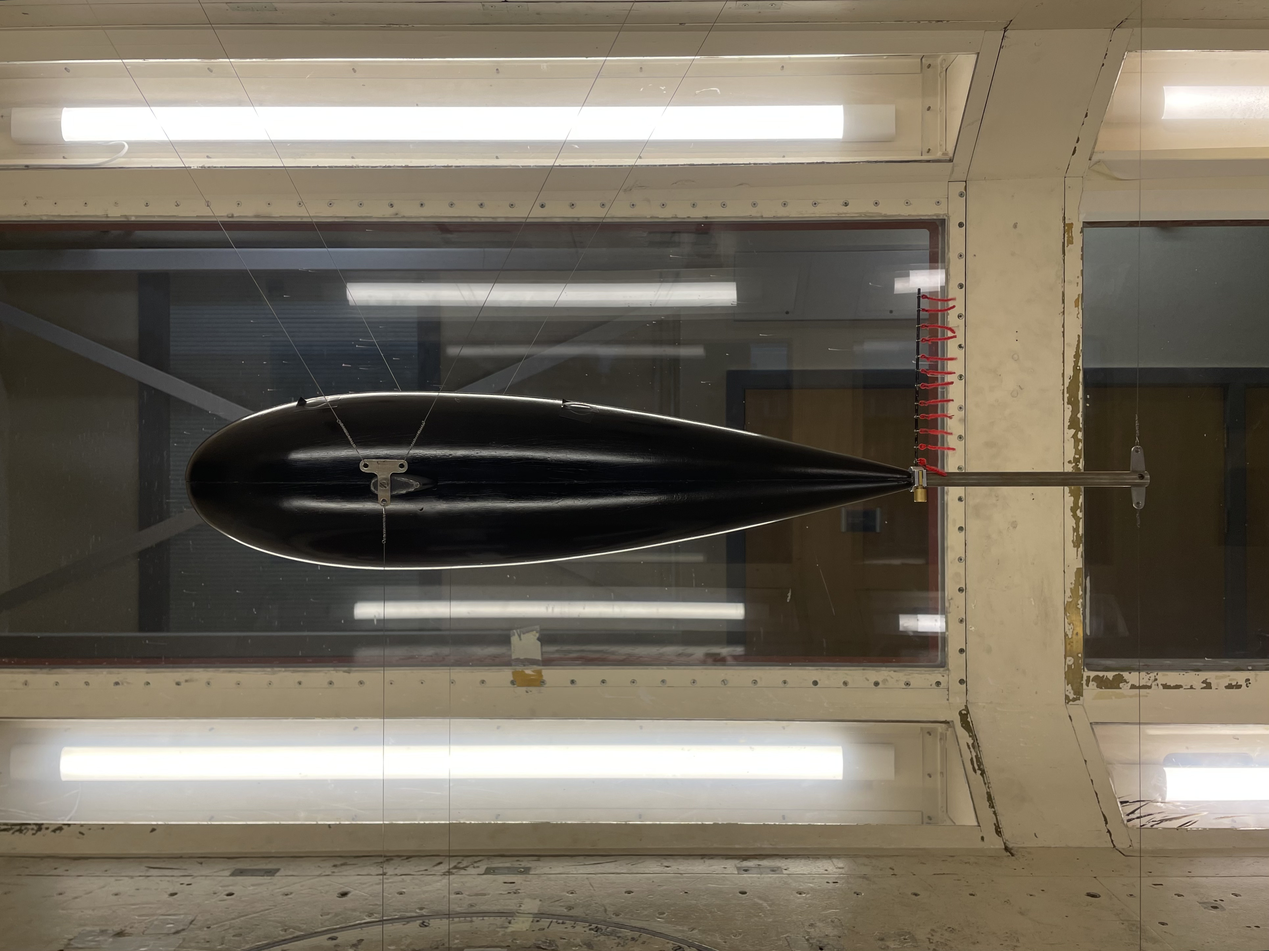
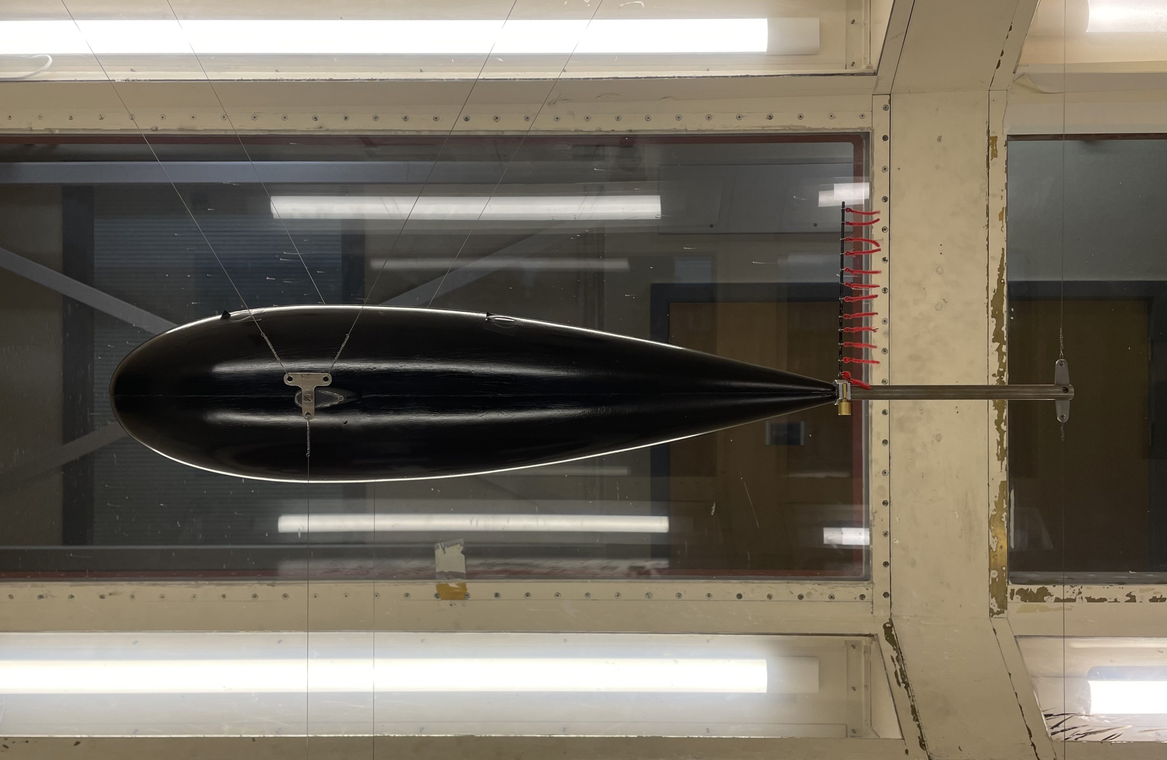
progress with 3a1 drag lab nearly done

diff --git a/IIA/3A1/Drag_bluff_and_streamlined/report.tex b/IIA/3A1/Drag_bluff_and_streamlined/report.tex
@@ -36,7 +36,7 @@ The spherical body was tested with and without a turbulence inducing trip wire t
 The flow patterns around the bodies are also visualised using tufts and streamlines.
 
 \section{Method}
-Each body was placed in the Markham wind tunnel and 12 measurements of drag were taken at $1$mBar intervals of dynamic pressure differences up to $12$mBar.
+Each body was placed in the Markham wind tunnel and 12 measurements of drag were taken at $1$mBar intervals of dynamic pressures up to $12$mBar.
 A counterweight was used to balance the drag force such that the body remained in the same position. The drag force was a factor of the weight added.
 
 \section{Theory}
@@ -97,27 +97,126 @@ Single point measurements were taken at each speed, and so the standard deviatio
 Instead the uncertainty in the drag reading is taken to be at the 1 point decimal precision, which is valid at low speeds where the drag reading is stable.
 The uncertainty in the correction factor to convert the reading into Newtons is taken to be 0.
 
-The Temperature was measured with a temperature gauge with a precision of $1^oC$, this may seem crude, however, on conversion to Kelvin this gives a small relative uncertainty.
+The Temperature was measured with a temperature gauge with a precision of $1^oC$ and so the error is $\pm 0.5^oC$. This may seem crude, however, on conversion to Kelvin this gives a small relative uncertainty.
 
 The pressure was measured in inches of mercury, with a very high precision of $0.001$ inches.
 Changes in mercury's density for the small temperature changes are also negligible and so the atmospheric pressure has negligible uncertainty.
 
+\section{Results and Drawings}
 
+\begin{figure}[H]
+    \centering
+    \includegraphics[width=0.8\textwidth]{Re_vs_Cd.png}
+    \caption{Graph of drag coefficient against Reynolds number for various bodies}
+    \label{fig:figure1}
+\end{figure}
+
+\begin{figure}[H]
+    \centering
+    \begin{subfigure}[t]{0.45\textwidth}
+        \centering
+        \includegraphics[width=1\textwidth]{Images_Videos/early_seperation_annotated.jpg}
+        \caption{Seperation before shoulder at low Reynolds number}
+        \label{fig:figure2}
+    \end{subfigure}
+    ~
+    \begin{subfigure}[t]{0.48\textwidth}
+        \centering
+        \includegraphics[width=1\textwidth]{Images_Videos/late_seperation_annotated.jpg}
+        \caption{Seperation after shoulder at high Reynolds number}
+        \label{fig:figure3}
+    \end{subfigure}
+    \caption{Seperation points for flow over sphere at low and high Reynolds number indicated by parafin oil}
+\end{figure}
+
+\begin{figure}[H]
+    \centering
+    \begin{subfigure}[t]{0.44\textwidth}
+        \centering
+        \includegraphics[width=1\textwidth]{Images_Videos/stream_flat_plate_3.jpg}
+        \caption{Streamline drawing}
+        \label{fig:figure4}
+    \end{subfigure}
+    ~
+    \begin{subfigure}[t]{0.48\textwidth}
+        \centering
+        \includegraphics[width=1\textwidth]{Images_Videos/Plate_8milibar_cropped.jpg}
+        \caption{Tuft visualisation}
+        \label{fig:figure5}
+    \end{subfigure}
+    \caption{Streamlines and tuft visualisation for flat plate}
+\end{figure}
+
+\begin{figure}[H]
+    \centering
+    \begin{subfigure}[t]{0.48\textwidth}
+        \centering
+        \includegraphics[width=1\textwidth]{Images_Videos/stream_low_Re_sphere_2.jpg}
+        \caption{Streamline drawing}
+        \label{fig:figure6}
+    \end{subfigure}
+    ~
+    \begin{subfigure}[t]{0.4\textwidth}
+        \centering
+        \includegraphics[width=1\textwidth]{Images_Videos/sphere_low_Re.jpg}
+        \caption{Tuft visualisation}
+        \label{fig:figure7}
+    \end{subfigure}
+    \caption{Streamlines and tuft visualisation for sphere at low Reynolds number}
+\end{figure}
+
+\begin{figure}[H]
+    \centering
+    \begin{subfigure}[t]{0.48\textwidth}
+        \centering
+        \includegraphics[width=1\textwidth]{Images_Videos/stream_hi_Re_sphere_2.jpg}
+        \caption{Streamline drawing}
+        \label{fig:figure8}
+    \end{subfigure}
+    ~
+    \begin{subfigure}[t]{0.4\textwidth}
+        \centering
+        \includegraphics[width=1\textwidth]{Images_Videos/sphere_high_Re.jpg}
+        \caption{Tuft visualisation}
+        \label{fig:figure9}
+    \end{subfigure}
+    \caption{Streamlines and tuft visualisation for sphere at high Reynolds number}
+\end{figure}
+
+\begin{figure}[H]
+    \centering
+    \begin{subfigure}[t]{0.48\textwidth}
+        \centering
+        \includegraphics[width=1\textwidth]{Images_Videos/stream_streamlined_2.jpg}
+        \caption{Seperation before shoulder}
+        \label{fig:figure10}
+    \end{subfigure}
+    ~
+    \begin{subfigure}[t]{0.42\textwidth}
+        \centering
+        \includegraphics[width=1\textwidth]{Images_Videos/Streamlined_8milibar.JPG}
+        \caption{Seperation after shoulder at higher Re}
+        \label{fig:figure11}
+    \end{subfigure}
+    \caption{Streamlines and tuft visualisation for streamlined body}
+\end{figure}
 
 \section{Discussion}
 
 % 1. Discuss the observations and measurements of the forces and flow fields around the three bodies. Sketch the flow patterns.
 
-The drag force was observed to increase with increasing dynamic pressure, as expected.
-Temperature was observed to increase in the tunnel by $3^oC$ over the course of the experiment, which was accounted for in the calculation of air density.
+Generally, the drag force was observed to increase with increasing flow velocity, as expected.
+However for the untripped sphere, the drag force decreased for an i ncrease in flow speed at a critical Reynolds number.
+Temperature was observed to increase in the tunnel by $3^oC$ over the course of the experiment, which was accounted for in the calculation of air density and viscosity.
 This is caused by the recycled air in the Markham tunnel being heated by the fan compression.
 
 The flow patterns around the bodies were visualised using tufts which are parallel to the streamlines.
-These can be seen in figures \ref{fig:figure4}, \ref{fig:figure6} and \ref{fig:figure10} for the flat plate, sphere and streamlined body respectively.
-Figure 
+These can be seen in figures \ref{fig:figure5}, \ref{fig:figure7} and \ref{fig:figure11} for the flat plate, sphere and streamlined body respectively.
+
+These show...
 
 
-Figure \ref{fig:figure1} shows the plot of drag coefficient, $C_d$ vs Reynolds number, $Re_D$ for the various bodies. 
+Figure \ref{fig:figure1} shows the plot of drag coefficient, $C_d$ vs Reynolds number, $Re$ for the various bodies. 
 For the sphere, the critical Reynolds number where the drag coefficient rapidly decreases is marked on the graph.
 This is due to seperation occuring behind the maximum circumference shoulder and so the size of the size of the wake is reduced.
 This was further demonstrated by spraying parafin oil on the sphere and observing where the oil collected on the surface.
@@ -158,108 +257,17 @@ This suggests that the skin friction drag is the significant contributor to the 
 
 % 6. Explain what is meant by fineness ratio and why there is an optimum for a “streamlined body”.
 
-The fineness ratio is the ratio of the length of the body to the diameter of the body.
-
+For a streamlined body, the fineness ratio is defined as the ratio of the length of the body to the diameter of the body.
 The form drag is proportional to frontal area and skin friction drag is proportional to wetted area.
 The optimum fineness ratio is at the minimum wetted area such that seperation occurs at the end of the body.
 This minimises the form drag and skin friction drag, giving the minimum total drag coefficient.
 
+\section{Conclusion}
 
-
-\begin{figure}[H]
-    \centering
-    \includegraphics[width=0.8\textwidth]{Re_vs_Cd.png}
-    \caption{Graph of drag coefficient against Reynolds number for various bodies}
-    \label{fig:figure1}
-\end{figure}
-
-\begin{figure}[H]
-    \centering
-    \begin{subfigure}[t]{0.48\textwidth}
-        \centering
-        \includegraphics[width=1\textwidth]{Images_Videos/early_seperation_annotated.jpg}
-        \caption{Seperation before shoulder}
-        \label{fig:figure2}
-    \end{subfigure}
-    ~
-    \begin{subfigure}[t]{0.48\textwidth}
-        \centering
-        \includegraphics[width=1\textwidth]{Images_Videos/late_seperation_annotated.jpg}
-        \caption{Seperation after shoulder at higher Re}
-        \label{fig:figure3}
-    \end{subfigure}
-\end{figure}
-
-\begin{figure}[H]
-    \centering
-    \begin{subfigure}[t]{0.48\textwidth}
-        \centering
-        \includegraphics[width=1\textwidth]{Images_Videos/stream_flat_plate_1.jpg}
-        \caption{Streamline drawing}
-        \label{fig:figure4}
-    \end{subfigure}
-    ~
-    \begin{subfigure}[t]{0.48\textwidth}
-        \centering
-        \includegraphics[width=1\textwidth]{Images_Videos/Plate_8milibar_cropped.jpg}
-        \caption{Tuft visualisation}
-        \label{fig:figure5}
-    \end{subfigure}
-    \caption{Streamlines and tuft visualisation for flat plate}
-\end{figure}
-
-\begin{figure}[H]
-    \centering
-    \begin{subfigure}[t]{0.48\textwidth}
-        \centering
-        \includegraphics[width=1\textwidth]{Images_Videos/stream_low_Re_sphere.jpg}
-        \caption{Streamline drawing}
-        \label{fig:figure6}
-    \end{subfigure}
-    ~
-    \begin{subfigure}[t]{0.48\textwidth}
-        \centering
-        \includegraphics[width=1\textwidth]{Images_Videos/sphere_low_Re.jpg}
-        \caption{Tuft visualisation}
-        \label{fig:figure7}
-    \end{subfigure}
-    \caption{Streamlines and tuft visualisation for sphere at low Reynolds number}
-\end{figure}
-
-\begin{figure}[H]
-    \centering
-    \begin{subfigure}[t]{0.48\textwidth}
-        \centering
-        \includegraphics[width=1\textwidth]{Images_Videos/stream_hi_Re_sphere.jpg}
-        \caption{Streamline drawing}
-        \label{fig:figure8}
-    \end{subfigure}
-    ~
-    \begin{subfigure}[t]{0.48\textwidth}
-        \centering
-        \includegraphics[width=1\textwidth]{Images_Videos/sphere_high_Re.jpg}
-        \caption{Tuft visualisation}
-        \label{fig:figure9}
-    \end{subfigure}
-    \caption{Streamlines and tuft visualisation for sphere at high Reynolds number}
-\end{figure}
-
-\begin{figure}[H]
-    \centering
-    \begin{subfigure}[t]{0.48\textwidth}
-        \centering
-        \includegraphics[width=1\textwidth]{Images_Videos/stream_streamlined.jpg}
-        \caption{Seperation before shoulder}
-        \label{fig:figure10}
-    \end{subfigure}
-    ~
-    \begin{subfigure}[t]{0.48\textwidth}
-        \centering
-        \includegraphics[width=1\textwidth]{Images_Videos/Streamlined_8milibar.JPG}
-        \caption{Seperation after shoulder at higher Re}
-        \label{fig:figure11}
-    \end{subfigure}
-    \caption{Streamlines and tuft visualisation for streamlined body}
-\end{figure}
+The drag coefficient of various bodies were measured and plotted against Reynolds number.
+The drag coefficient of the sphere was observed to decrease at a critical Reynolds number due to seperation occuring after the shoulder.
+Flow at lower Reynolds numbers can be tripped to induce turbulence within the boundary layer, reducing the form drag on a bluff body.
+One about measurements?
+One about flow patterns?
 
 \end{document}
